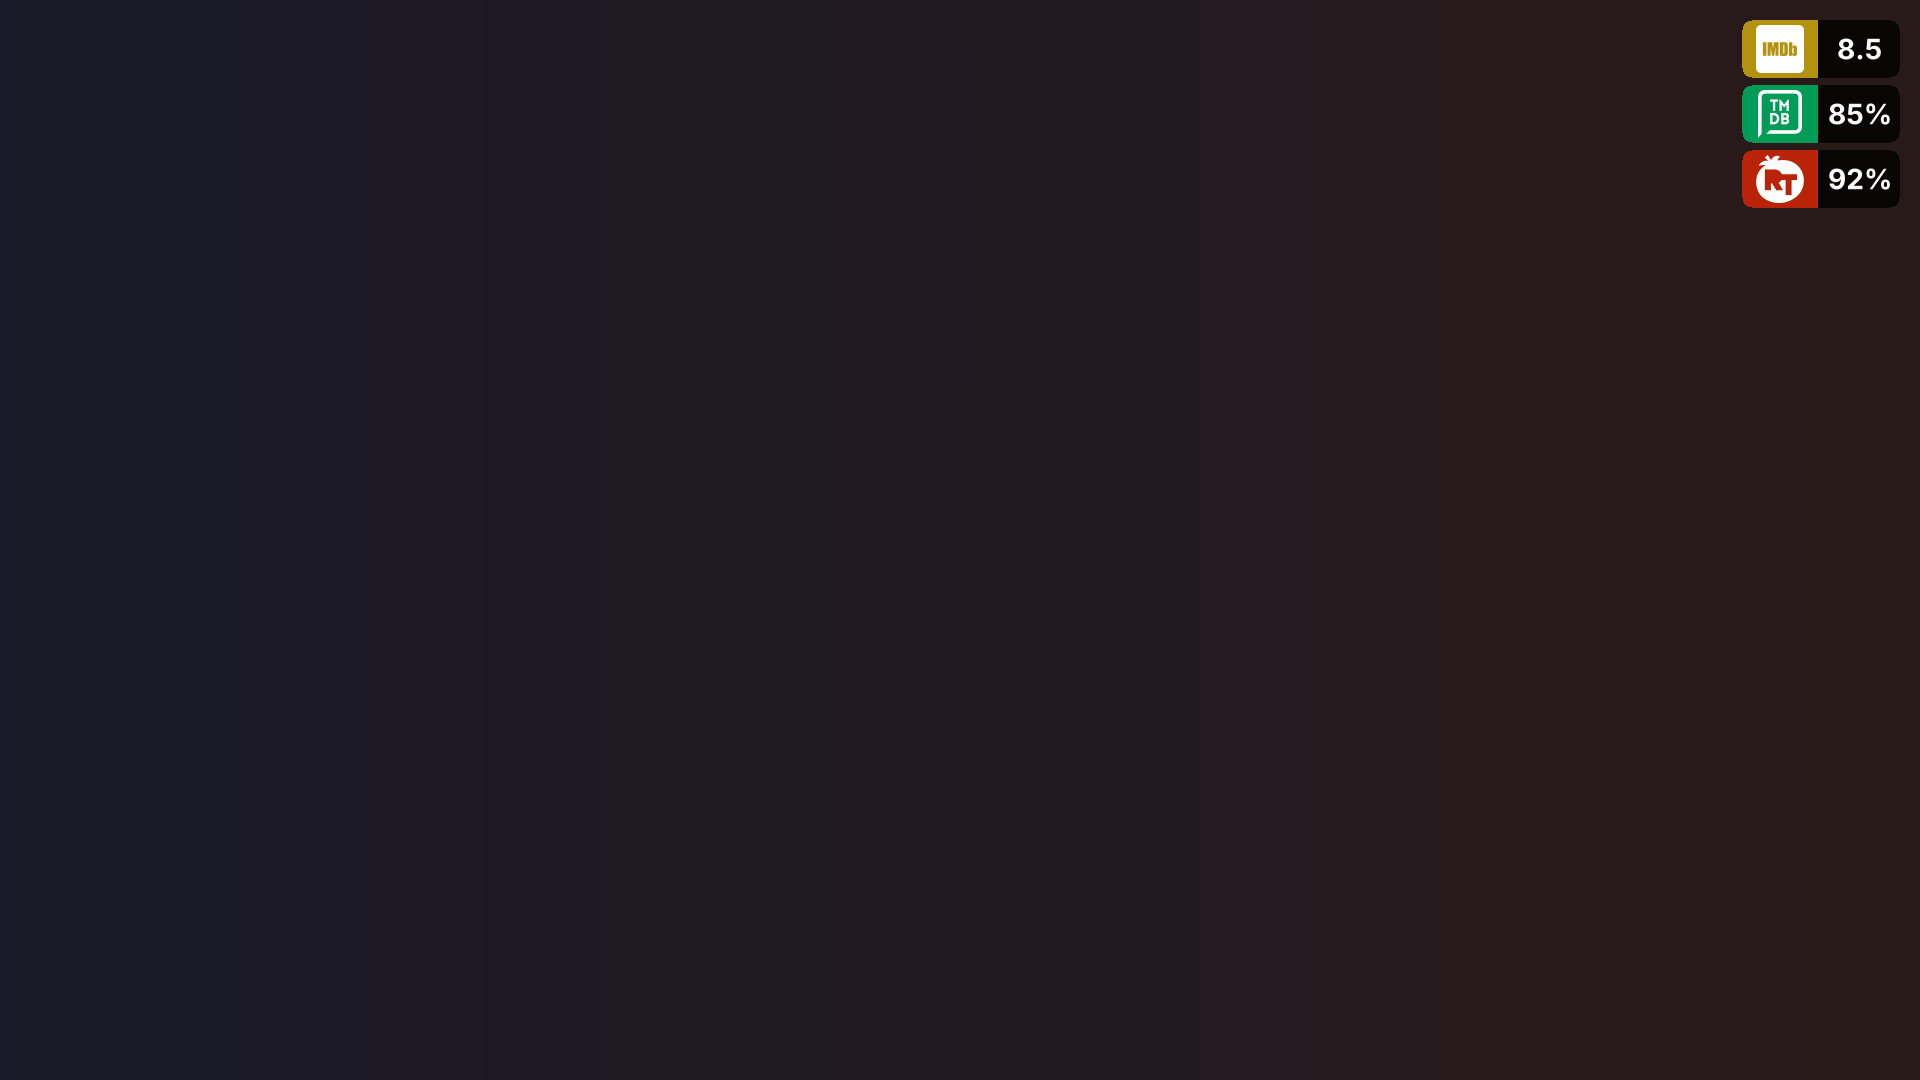
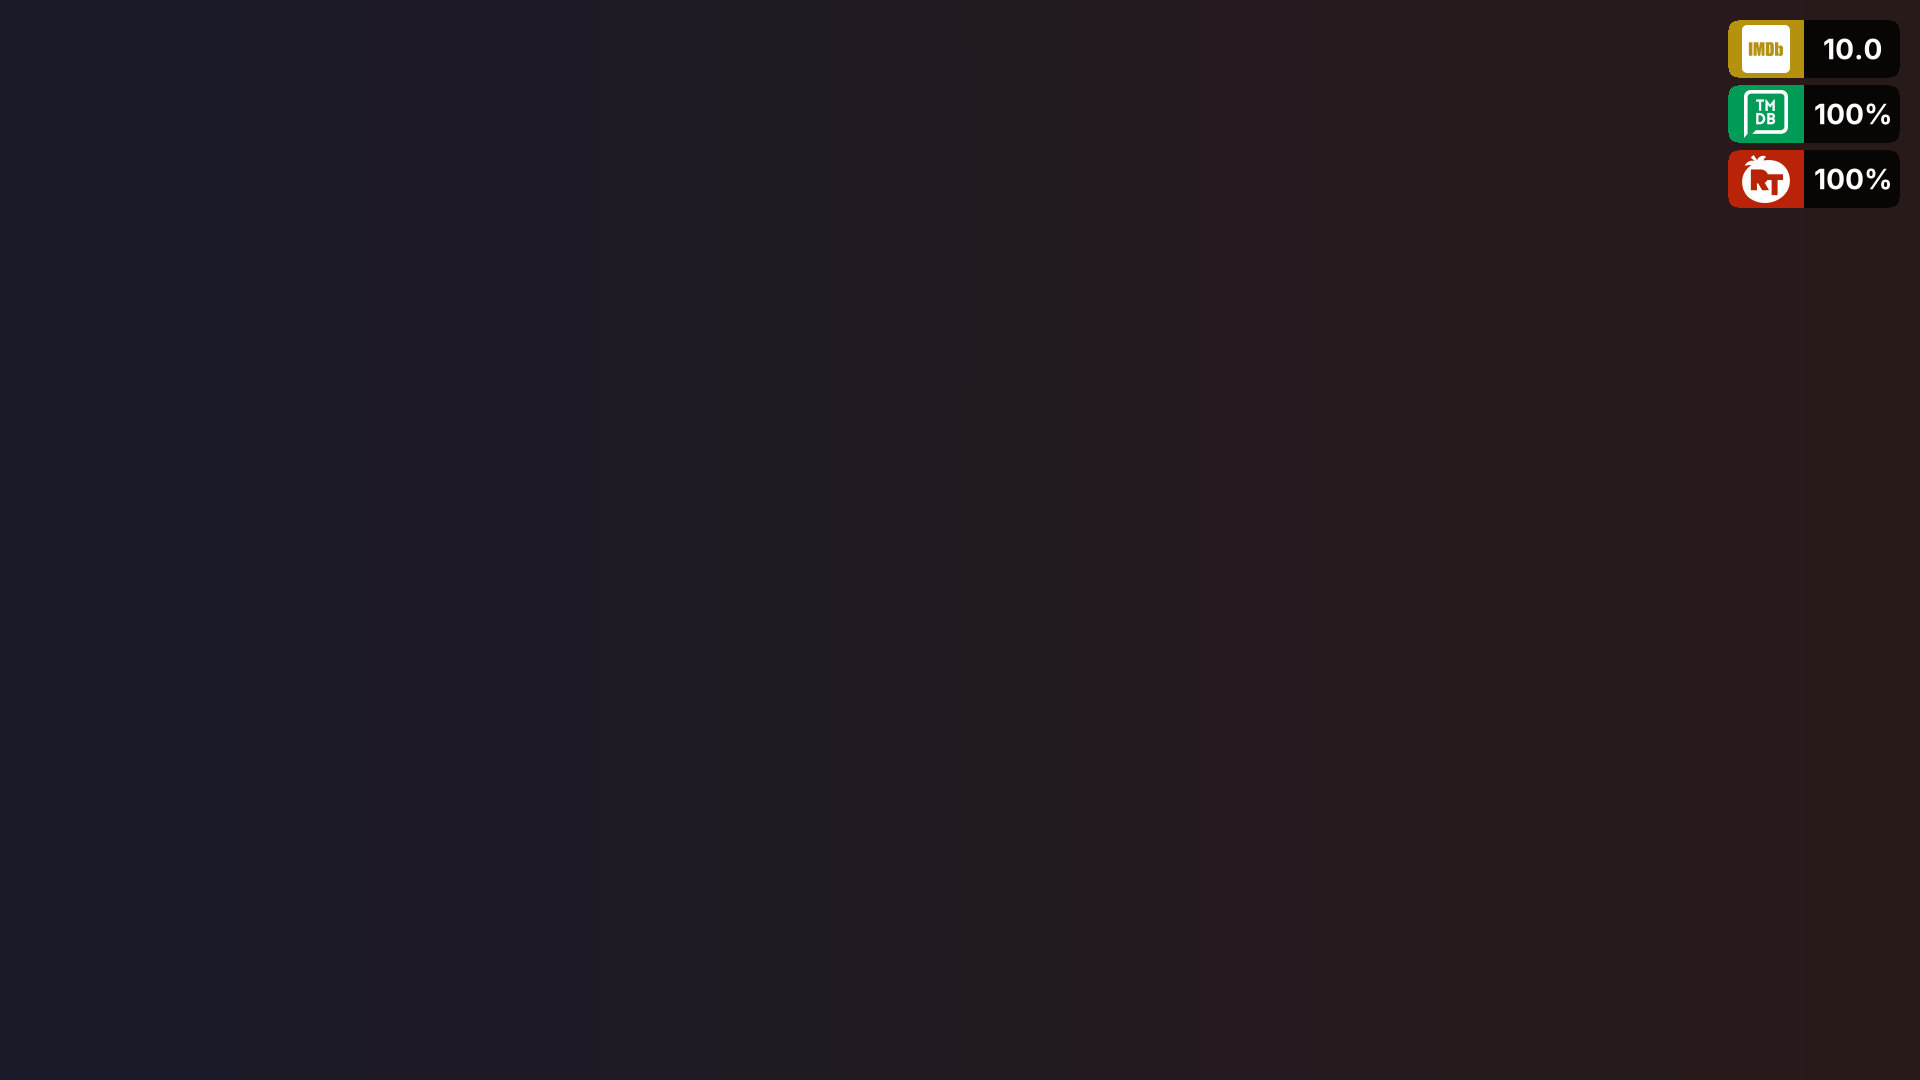
badge size examples

Changed region(s): [[0.875, 0.0, 0.9688, 0.2139]]

diff --git a/web/src/views/LandingView.vue b/web/src/views/LandingView.vue
@@ -104,6 +104,30 @@ const backdrops = [
   { src: "/examples/backdrop-metropolis.webp", label: "Metropolis (1927)" },
   { src: "/examples/backdrop-trip-to-moon.webp", alt: "A Trip to the Moon (1902)", label: "A Trip to the Moon (1902)" },
 ];
+
+const posterSizes = [
+  { src: "/examples/size-poster-xs.webp", label: "Extra Small" },
+  { src: "/examples/size-poster-s.webp", label: "Small" },
+  { src: "/examples/size-poster-m.webp", label: "Medium" },
+  { src: "/examples/size-poster-l.webp", label: "Large" },
+  { src: "/examples/size-poster-xl.webp", label: "Extra Large" },
+];
+
+const logoSizes = [
+  { src: "/examples/size-logo-xs.webp", label: "Extra Small" },
+  { src: "/examples/size-logo-s.webp", label: "Small" },
+  { src: "/examples/size-logo-m.webp", label: "Medium" },
+  { src: "/examples/size-logo-l.webp", label: "Large" },
+  { src: "/examples/size-logo-xl.webp", label: "Extra Large" },
+];
+
+const backdropSizes = [
+  { src: "/examples/size-backdrop-xs.webp", label: "Extra Small" },
+  { src: "/examples/size-backdrop-s.webp", label: "Small" },
+  { src: "/examples/size-backdrop-m.webp", label: "Medium" },
+  { src: "/examples/size-backdrop-l.webp", label: "Large" },
+  { src: "/examples/size-backdrop-xl.webp", label: "Extra Large" },
+];
 </script>
 
 <template>
@@ -259,6 +283,69 @@ const backdrops = [
                 class="rounded-lg shadow-md"
               />
               <p class="text-xs text-muted-foreground">{{ l.label }}</p>
+            </div>
+          </div>
+        </div>
+
+        <!-- Badge Size -->
+        <div class="space-y-8 text-center">
+          <div class="space-y-2">
+            <h2 class="text-2xl font-semibold">Badge Size</h2>
+            <p class="text-sm text-muted-foreground max-w-lg mx-auto">
+              Control how large the rating badges appear on your images.
+            </p>
+          </div>
+
+          <!-- Size: Posters -->
+          <div class="space-y-2">
+            <h3 class="text-lg font-medium">Posters</h3>
+            <div class="flex flex-wrap justify-center gap-4">
+              <div v-for="p in posterSizes" :key="p.src" class="space-y-1">
+                <BlurImage
+                  :src="p.src"
+                  :alt="p.label"
+                  :width="160"
+                  :height="240"
+                  class="rounded-lg shadow-md"
+                />
+                <p class="text-xs text-muted-foreground">{{ p.label }}</p>
+              </div>
+            </div>
+          </div>
+
+          <!-- Size: Logos -->
+          <div class="space-y-2">
+            <h3 class="text-lg font-medium">Logos</h3>
+            <div class="flex flex-wrap items-end justify-center gap-6">
+              <div v-for="l in logoSizes" :key="l.src" class="space-y-2">
+                <div class="rounded-lg shadow-md bg-neutral-900 p-3">
+                  <BlurImage
+                    :src="l.src"
+                    :alt="l.label"
+                    :width="200"
+                    :height="122"
+                    fit="contain"
+                  />
+                </div>
+                <p class="text-xs text-muted-foreground">{{ l.label }}</p>
+              </div>
+            </div>
+          </div>
+
+          <!-- Size: Backdrops -->
+          <div class="space-y-2">
+            <h3 class="text-lg font-medium">Backdrops</h3>
+            <div class="flex flex-wrap justify-center gap-4">
+              <div v-for="b in backdropSizes" :key="b.src" class="space-y-1">
+                <BlurImage
+                  :src="b.src"
+                  :alt="b.label"
+                  :width="360"
+                  :height="203"
+                  class="rounded-lg shadow-md"
+                />
+                <p class="text-xs text-muted-foreground">{{ b.label }}</p>
+              </div>
             </div>
           </div>
         </div>

diff --git a/web/vite-plugin-optimize-examples.ts b/web/vite-plugin-optimize-examples.ts
@@ -7,6 +7,9 @@ const WEBP_QUALITY = 80
 
 /** Max widths at 2× retina for each image category on the landing page. */
 const MAX_WIDTHS: Record<string, number> = {
+  'size-backdrop-': 720, // displayed at 360px
+  'size-poster-': 400,   // displayed at 200px
+  'size-logo-': 400,     // displayed at 200px
   'backdrop-': 720,  // displayed at 360px
   'logo-': 400,      // displayed at 200px
   'style-': 400,     // displayed at 200px
